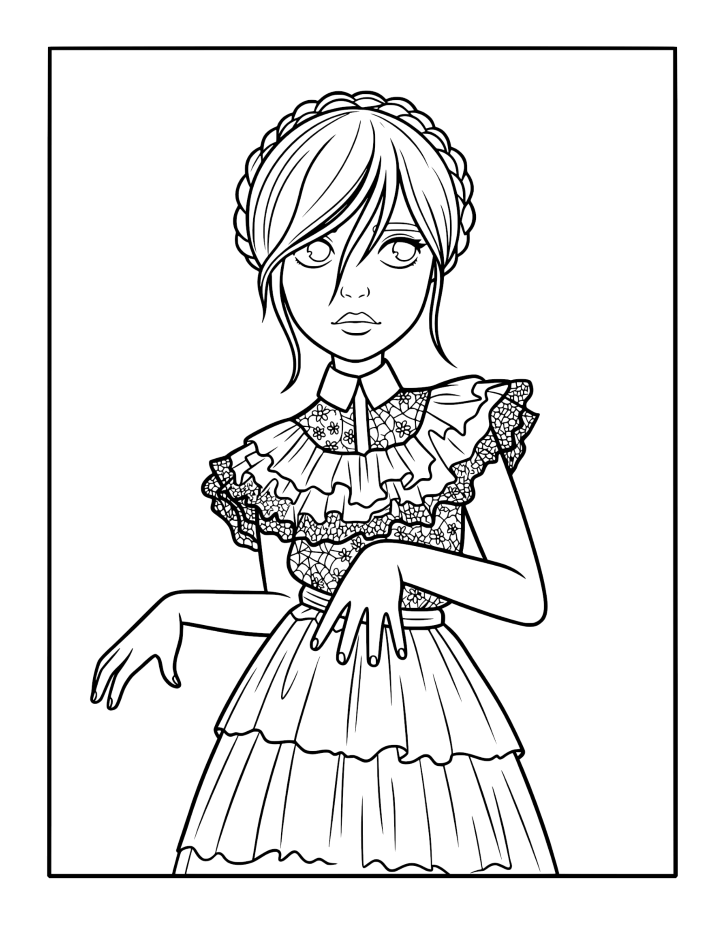
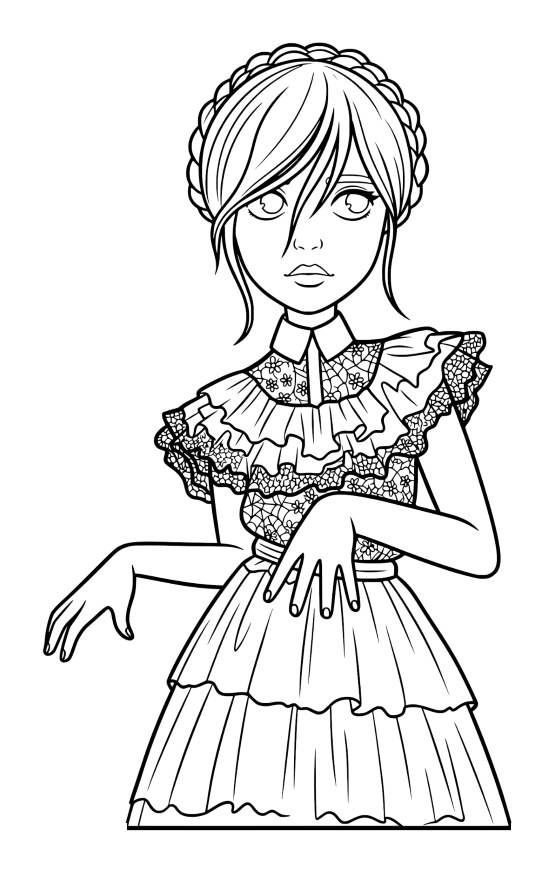
Narzedzie kolorowanek usuwa ramki i przycina nadmiar papieru do 0,7 cm
Ramka zostaje tylko tam, gdzie zamyka czesc rysunku, np. dol sukienki.

Changed region(s): [[0.0614, 0.0309, 0.9513, 0.9588], [0.7978, 0.6495, 0.8899, 0.6804]]

diff --git a/notes/kod.md b/notes/kod.md
@@ -7,7 +7,7 @@ Kod to moduły ES bez kroku budowania: `index.html` ładuje tylko `src/main.js`,
 - `scenes/*Scene.js` – ekrany: start, wybór postaci, terrarium, mapa, szpital, kuchnia, cukiernia, dentysta i overlay (przyciski ustawień, muzyki i przeładowania). Przejście między scenami: `PixelUI.fadeTo(this, 'NazwaScene')`.
   - `BakeryScene` – dekorowanie babeczek i wystawa zapamiętana w `localStorage`.
   - `DentistScene` – lusterko, szczotkowanie palcem okruszków słodyczy, płukanie i naklejka. Okruszków jest tym więcej, im więcej słodyczy zjedzono (licznik w `ui/sweets.js`).
-  - `ColoringScene` – pracownia z kolorowankami: półka z grupami (Looney Tunes, Wednesday), potem półka ze stronami grupy, potem kolorowanie jak w „Painting Books” (farby i wzory w panelu po prawej, cofanie). Narzędzia po lewej: wiaderko (stuknięcie wlewa farbę w pole) i pędzel (gruba kreska `BRUSH_WIDTH` pod palec, przycięta do pola, w którym się zaczęła). Drukarka w lewym dolnym rogu drukuje czysty oryginał na całą kartkę (`preparePrint`: ukryty `#print-sheet` i styl `@media print`, przygotowane przy otwarciu strony, bo iPad drukuje tylko prosto ze stuknięcia). Kolorów nie zapamiętujemy: strona otwiera się zawsze czysta (do zamknięcia strony kroki malowania są tylko w `registry` pod `coloringSteps`, żeby przetrwały obrót iPada; cofanie zdejmuje ostatni krok, a `PaintLayer.render` rysuje wszystkie od nowa). Na ekranie widać kreski z oryginału (`makeLineArt`: pełna rozdzielczość, gładkie skalowanie) nałożone na warstwę farby (`PaintLayer`, w rozdzielczości ekranu). Pól nie przygotowujemy: gra szuka pola w niepokolorowanym oryginale w chwili stuknięcia (`gfx/coloringAreas.js`). Polem jest miejsce otoczone kreskami (albo brzegiem kartki) w co najmniej 95% obwodu (`MIN_ENCLOSED`); resztę mogą stanowić szpary w rysunku, którymi farba nie wycieka. Szpary domykamy na próbę, pogrubiając kreski od `MAX_GAP_RADIUS` w dół, i bierzemy najmniejsze pole, które spełnia warunek. Farba wchodzi kilka pikseli pod kreski (`UNDER_LINE`), ale nigdy na drugą stronę. Znalezione pola gra pamięta, póki działa, więc cofanie i pędzel trafiają w to samo pole. Grupy i ich strony są w `data/coloring.js`, obrazki w `docs/assets/coloring/<id>.png`. Te obrazki robi `node tools/clean-coloring.mjs` z oryginałów w `assets/coloring/` (poza `docs/`): usuwa np. tytuł i adres strony, wskazane w `STRIP` prostokątami. Znikają tylko kreski leżące w całości w prostokącie, więc prostokąt może być z zapasem, a rysunek, który w niego wchodzi, zostaje cały. Narzędzie dokłada też papieru tam, gdzie rysunek podchodzi do brzegu bliżej niż 0,7 cm na iPadzie (`MARGIN`). Nowa kolorowanka: oryginał do `assets/coloring/`, ewentualnie prostokąty do `STRIP`, uruchomić narzędzie i dopisać stronę do grupy w `data/coloring.js`. Strony z PDF (np. emilydrawing.com) renderujemy do PNG wysokości 930 px; adres strony przerywa tam ramkę, więc zamiast `STRIP` zamalowujemy go na biało i domykamy ramkę już w oryginale. Farby, warstwa farby i druk w `gfx/coloring.js`.
+  - `ColoringScene` – pracownia z kolorowankami: półka z grupami (Looney Tunes, Wednesday), potem półka ze stronami grupy, potem kolorowanie jak w „Painting Books” (farby i wzory w panelu po prawej, cofanie). Narzędzia po lewej: wiaderko (stuknięcie wlewa farbę w pole) i pędzel (gruba kreska `BRUSH_WIDTH` pod palec, przycięta do pola, w którym się zaczęła). Drukarka w lewym dolnym rogu drukuje czysty oryginał na całą kartkę (`preparePrint`: ukryty `#print-sheet` i styl `@media print`, przygotowane przy otwarciu strony, bo iPad drukuje tylko prosto ze stuknięcia). Kolorów nie zapamiętujemy: strona otwiera się zawsze czysta (do zamknięcia strony kroki malowania są tylko w `registry` pod `coloringSteps`, żeby przetrwały obrót iPada; cofanie zdejmuje ostatni krok, a `PaintLayer.render` rysuje wszystkie od nowa). Na ekranie widać kreski z oryginału (`makeLineArt`: pełna rozdzielczość, gładkie skalowanie) nałożone na warstwę farby (`PaintLayer`, w rozdzielczości ekranu). Pól nie przygotowujemy: gra szuka pola w niepokolorowanym oryginale w chwili stuknięcia (`gfx/coloringAreas.js`). Polem jest miejsce otoczone kreskami (albo brzegiem kartki) w co najmniej 95% obwodu (`MIN_ENCLOSED`); resztę mogą stanowić szpary w rysunku, którymi farba nie wycieka. Szpary domykamy na próbę, pogrubiając kreski od `MAX_GAP_RADIUS` w dół, i bierzemy najmniejsze pole, które spełnia warunek. Farba wchodzi kilka pikseli pod kreski (`UNDER_LINE`), ale nigdy na drugą stronę. Znalezione pola gra pamięta, póki działa, więc cofanie i pędzel trafiają w to samo pole. Grupy i ich strony są w `data/coloring.js`, obrazki w `docs/assets/coloring/<id>.png`. Te obrazki robi `node tools/clean-coloring.mjs` z oryginałów w `assets/coloring/` (poza `docs/`): usuwa np. tytuł i adres strony, wskazane w `STRIP` prostokątami. Znikają tylko kreski leżące w całości w prostokącie, więc prostokąt może być z zapasem, a rysunek, który w niego wchodzi, zostaje cały. Narzędzie usuwa też ramkę wokół rysunku (`unframe`: linie wzdłuż wszystkich czterech brzegów), ale zostawia jej kawałek tam, gdzie zamyka część rysunku (np. dół sukienki), i ustawia papier wokół rysunku na dokładnie 0,7 cm na iPadzie (`MARGIN`): dokłada go albo przycina. Nowa kolorowanka: oryginał do `assets/coloring/`, ewentualnie prostokąty do `STRIP`, uruchomić narzędzie i dopisać stronę do grupy w `data/coloring.js`. Strony z PDF (np. emilydrawing.com) renderujemy do PNG wysokości 930 px; adres strony przerywa tam ramkę, więc zamiast `STRIP` zamalowujemy go na biało i domykamy ramkę już w oryginale. Farby, warstwa farby i druk w `gfx/coloring.js`.
   - `MapScene` – miejsca na mapie i drogi do nich opisuje `MAP_PLACES`. Wszystkie drogi zaczynają się w domu.
   - `OverlayScene` – zębatka Ustawień tylko na ekranach z `SETTINGS_SCENES` (start, wybór postaci).
 - `scenes/routes.js` – adresy ekranów po `#` (`SCENE_ROUTES`, np. `#kuchnia`, `#kolorowanki/wednesday/wednesday-mala`). BaseScene wpisuje adres przy otwarciu sceny, a `main.js` zaczyna grę od ekranu z adresu, więc przeładowanie w przeglądarce wraca w to samo miejsce. Przycisk przeładowania w grze (`OverlayScene`) usuwa adres i zawsze wraca na ekran startowy. Nowa scena potrzebuje wpisu (`npm run check` to sprawdza). Wybrana postać jest zapamiętana w `localStorage`, żeby przeżyła przeładowanie.
